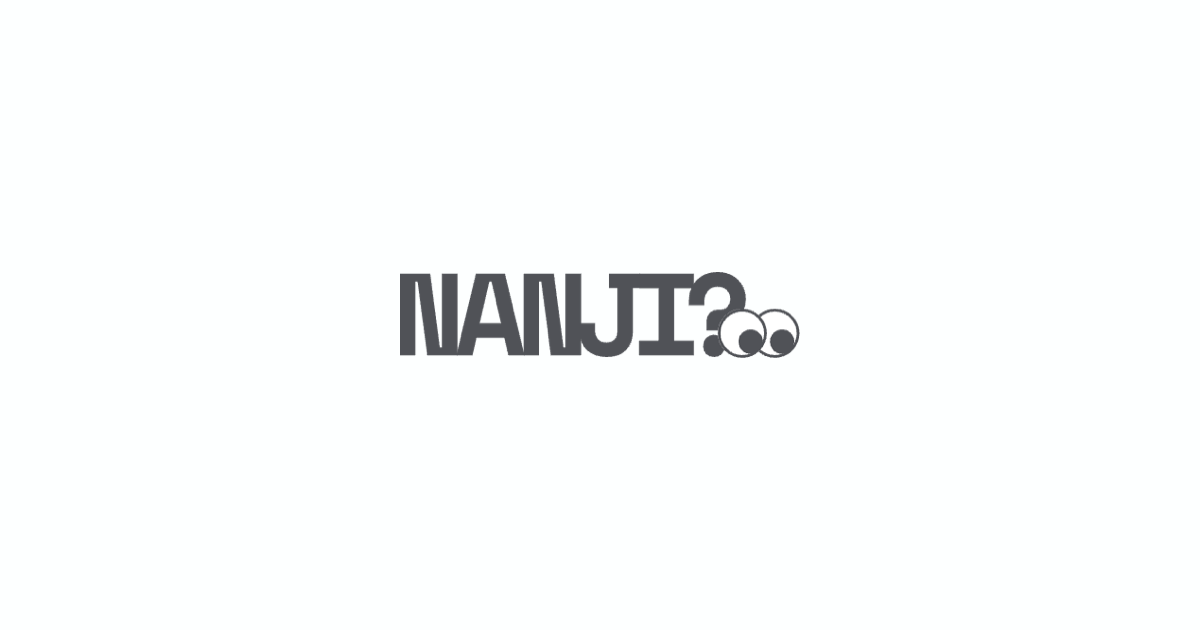
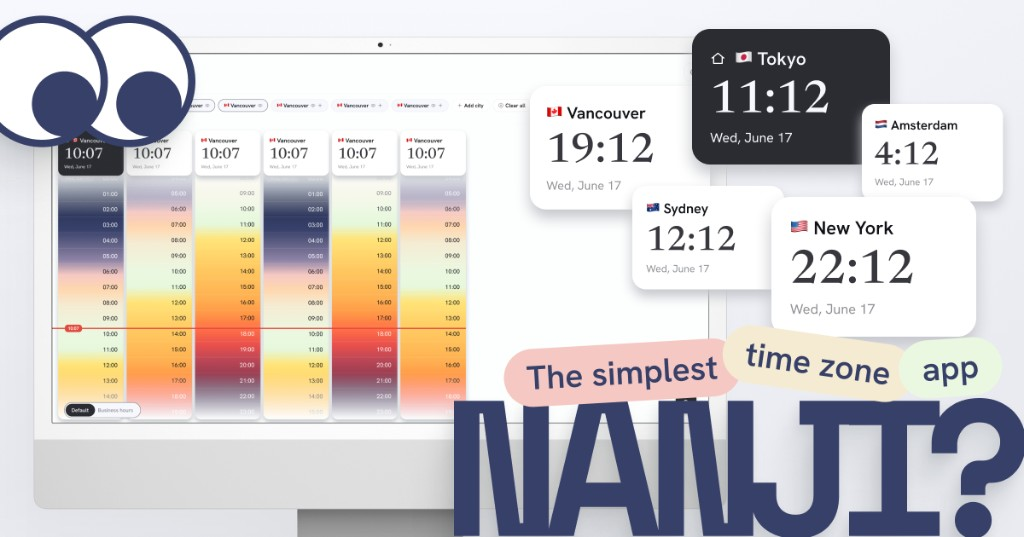
Update SNS preview image and OG meta tags with production URLs.

diff --git a/index.html b/index.html
@@ -23,9 +23,13 @@
       property="og:description"
       content="Compare world time zones on a visual timeline. See what time it is in multiple cities at once."
     />
-    <meta property="og:image" content="/og-image.png" />
-    <meta property="og:image:width" content="1200" />
-    <meta property="og:image:height" content="630" />
+    <meta property="og:url" content="https://nanji-app.vercel.app/" />
+    <meta
+      property="og:image"
+      content="https://nanji-app.vercel.app/og-image.png"
+    />
+    <meta property="og:image:width" content="1024" />
+    <meta property="og:image:height" content="537" />
     <meta property="og:locale" content="en_US" />
     <meta property="og:locale:alternate" content="ja_JP" />
 
@@ -36,7 +40,10 @@
       name="twitter:description"
       content="Compare world time zones on a visual timeline. See what time it is in multiple cities at once."
     />
-    <meta name="twitter:image" content="/og-image.png" />
+    <meta
+      name="twitter:image"
+      content="https://nanji-app.vercel.app/og-image.png"
+    />
 
     <!-- iOS home screen -->
     <meta name="apple-mobile-web-app-capable" content="yes" />